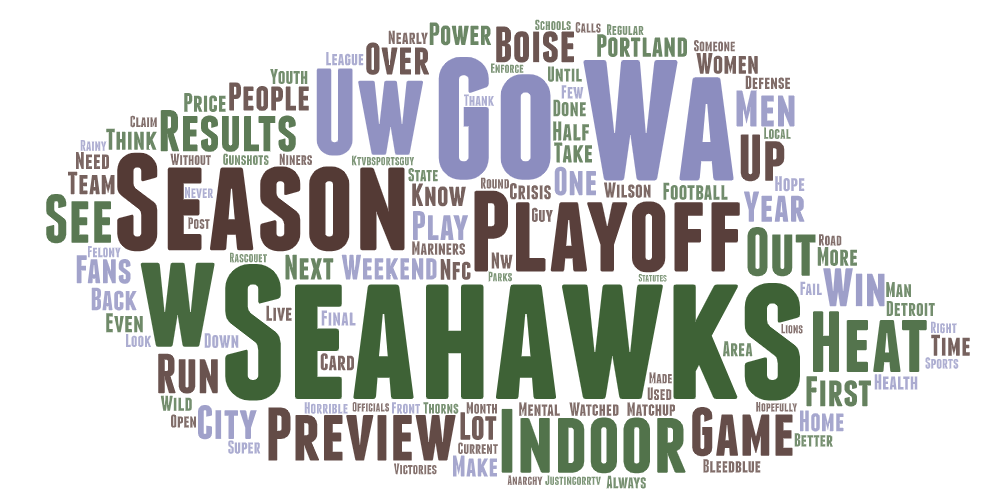
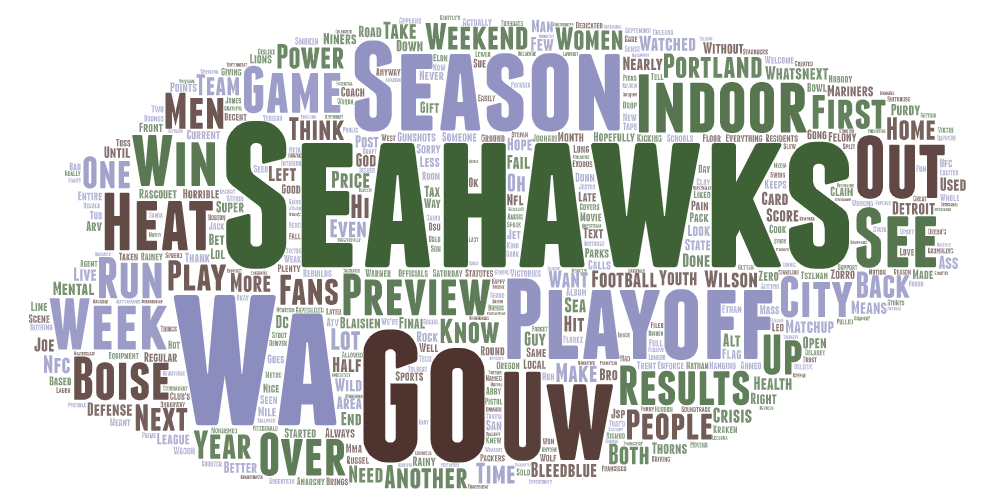
Work on markdown report

diff --git a/README.md b/README.md
@@ -1,29 +1,62 @@
 # GEOG 458 - Lab 2
 ### Calvin Standaert
 
-## Twitter Stream Discussion:
-
 ## Twitter Search Discussion:
 
-___Regarding your narratives about the exercise of the twsearch.ipynb, please introduce your research design. What topic you have chosen, how you pick the search terms as well as the search parameters.(POINT 9)___
+### Topic:
 
-The topic I chose to focus on was how the city of Seattle is talked about both in the city of Seattle, and other key cities in the Pacific Northwest. I thought that this would be interesting to look into, as the city of Seattle is often regarded in a political atmosphere, thus possibly being a polarizing figure in other places. Additionally, Seattle is the largest city in the Pacific Northwest, and thus likely impacts those people living in nearby cities.
+The topic I wanted to focus on in my comparison was “how do people talk about Seattle in the largest cities in the American Pacific Northwest”. To this end, the search terms I used were “Seattle” and “Emerald City” which together returned a sufficient amount of tweets in each of my chosen locations. The locations I chose to conduct my tweet searches in were Seattle; Washington, Portland; Oregon, Boise; Idaho, and Spokane; Washington. These cities were chosen because they have the largest populations among all the American cities in the Pacific Northwest Region. Overall, all searches were conducted on January 16th, 2023, and collected tweets from as far back as January 8th, 2023.
 
-**Search Terms:**
-For my search, I decided that it in order to find out how people talk about Seattle, it would be most important to directly use Seattle as the sole search term. I had considered including additional keywords that may identify Seattle, but I decided it would be unnecessary, as Seattle does not have any major nicknames.
+### Reason for Comparison:
+
+I wanted to conduct my comparative analysis on how the city of Seattle is spoken about for a couple of main reasons. The first reason is that in my experience, the city of Seattle can be a very divisive subject due to the political and social movements that happen in the city. Due to my suspicions that Seattle would be talked about in a political/social context, I wanted to see what different opinions are taken about Seattle’s associated politics and social movements in nearby cities. Besides politics and social movements, a second reason that made me interested in an analysis of how Seattle is talked about is that the city of Seattle is an important economic center, so I wanted to see if there were opinions of Seattle talked about in other cities due to Seattle’s economic presence. Finally, a last reason I wanted to analyze how Seattle is talked about is to see if there were any topics or words that were associated with Seattle that I wasn’t familiar with.
+
+### Comparison:
+
+Looking at the word clouds, I believe that we can see there is a high degree of similarity shared between each of the word clouds.
+
+One clear similarity shared between all of the word clouds is that each has a strong focus on sports, with very many words related to the Seahawks football team, and football in general appearing. More specifically, each word cloud contains numerous football team names, player and coach names, commentator names, and other terms related to football. Besides football, another similarity in all of the word clouds is that they each contain a moderate amount of words related to economics/economic transactions (tax, buy, price, sell), the legal system (police, sue, lawsuit, court), schools (UW, school, students) and time units (year, month, weekend). Though not readily apparent in the Portland word cloud, the word clouds of Seattle, Boise, and Spokane all also contain similar terms related to weather, such as weather, rain, and humidity.
+
+Due to the high degree of similarity between the word clouds, there are only a few differences that make each word cloud distinct. Probably the greatest difference between the word clouds is the number of words in each word cloud, with some word clouds having smaller pools of words, and others having larger pools of words. Ranking each word cloud by size, the Seattle word cloud has by far the most words, followed by Spokane, then Portland, and finally Boise. A second major difference between the word clouds is found in the terms left over after excluding all the major shared words/topics. After excluding the shared terms, the Seattle word cloud had words related to transportation and Martin Luther King Jr (transit, WADOT, MLK), the Boise word cloud had words related to crimes (murder, gunshot), the Spokane word cloud contained negatively-charged terms (shit, hate, and awful), and the Portland word cloud had words concerning popular media (TikTok, ChoeShow).
+
+### Reasoning for Patterns:
+
+I think that the patterns observed in the resulting data can be explained by some key reasons. 
+
+Concerning the pattern of sports-related talk, I think that the main reason so much of the data was dominated by sports talk is that football and other sports are very popular among those who use Twitter in each location. Additionally, I think the reason why the Seahawks and Seahawks player words were so common is that Seattle is the only city in the region with an NFL team, and thus it is likely that the Seahawks are also the main team for football fans in the other cities. Also worth noting in explaining the commonality of Seahawks/football talk is that the time I gathered my data was near the weekend when football is played and was also amidst the football playoffs/season, which is when football fans are more likely to be active. 
+
+With the terms surrounding weather found in the word clouds of Seattle, Spokane, and Boise (but not Portland), I think that the words related to weather may have occurred at high frequency because people were talking about the weather in Seattle or talking about weather systems affecting their city that also affected Seattle.
+
+Looking at the word related to economics, I believe that the reason why words like buy, tax, and sell occurred in each word cloud probably has something to do with people describing the economic situation in Seattle, talking about the recent rise in taxes proposed by certain liberal states/cities (such as Seattle), or more generally explaining their disdain with the way taxes are currently handled in Seattle. I think that this reason is essentially the same as why topics related to the legal system were popular, as people were talking about legal issues in Seattle, asserting an opinion related to Seattle legal proposals, or describing how they feel about certain Seattle legal cases.
+
+Considering the talk about schools, I think a possible explanation is that people were discussing Seattle schools like UW, or discussing topics related to the Seattle educational system. In a somewhat similar vein, I think that the talk of time units in Seattle-related tweets may have been due to people discussing events in Seattle, or possibly due to people talking about Seattle sports time frames including player contract timelines or time-dependent team decisions.
+
+Next, I think that a possible explanation for the difference in the number of words contained in each word cloud is due to a mix of differing city population sizes, and to a lesser degree, differences in how popular talking about Seattle is in each city. I think this would make sense because the city of Seattle has the largest population and the largest amount of words, while the city of Boise has the lowest amount of words and the lowest population. Under this explanation, we could also understand the difference between the number of Spokane and Portland words as being related to differing interests in talking about Seattle as opposed to being solely related to city population sizes.
+
+Finally, I think we can explain the differences in the popularity of smaller topics within each city as being a result of local interests associated with Seattle, or the topics that are locally associated with Seattle.
+
+### How Future Research Could Be Improved:
+
+If I were to conduct a similar analysis in the future, there would be a few things I think could be changed to improve the results. The first thing change I would make is to devise another system for reviewing the words that are more than simply searching through a list of the resulting words. I think that this could improve the research as the simple search I did for this analysis was time-consuming and likely missed many erroneous words due to the difficulty of manually searching. Instead of manually searching through the results, I think the research could be improved by first checking the resulting words against a dictionary of valid English words to weed out many of the erroneous entries. This change would expedite the analysis process and thus allow for greater data amounts to be processed.
+
+Another thing that could be improved in future research is how the results of tweets are gathered (specifically how each word in the text of a tweet is recorded). The main reason for this change is that many words from individual tweets were recorded with non-English characters, which made it necessary to discard a large amount of unparseable words. Discarding many words no doubt impacts the results and thus is a chief concern for word frequency analysis. To fix this issue, something would need to be done to extract the tweets without changing the characters in the tweets, thus preserving more of the words.
+
+A third thing I would likely change to improve my future research is to focus the search criteria a bit more to gather data specifically related to a key topic. For example, if I were doing this same search again, I would try and add keywords in my search criteria that would help filter out tweets related to football or sports, which would help gather tweets that discuss the city of Seattle more specifically. This change in concert with a focused topic would likely result in much more meaningful results and overall improve my research quality.
+
+Finally, my research in the future could be improved by gathering data from each location many times over longer periods or by gathering historical tweets from greater periods. This change is important because, in the research done for this assignment, I was only able to gather a limited amount of tweets from a narrow period. These constraints on data collection are likely to vastly reduce the analysis quality as the tweets gathered are much more likely to be impacted by short-term trends in tweeting, such as by football games or key political movements. Expanding the number of tweets gathered would mean that my analysis would be much more robust and more likely to accurately depict how Seattle is tweeted about in main Pacific Northwest cities.
+
+### Difference from Expectations:
+
+Overall, the results I obtained from my research differed from my expectations in some major ways. I think the clearest difference from my expectations that the results yielded was how much sports that would be talked about in conversations about Seattle. I had expected that the talk about Seattle would be more focused on Seattle’s reputation or political impact, and so I was surprised to find that the tweets related to Seattle were dominated by Seattle’s football team and football players.
+
+Another big difference from my expectations is that the discussion about Seattle was very unfocused, and the resulting word clouds did not seem to contain any key insights about how people in other large Pacific Northwest cities talk about Seattle. This difference was especially important given how some important terms were talked about, but they were small and the word cloud format meant that they could not easily be attached to opinions.
+
+A last difference from expectations is that the word clouds produced from the tweets were fairly homogenous and differed in seemingly minor ways. This difference was somewhat surprising, as I had thought that the people in each city would talk about Seattle in starkly different contexts.
+
+Besides differences in expectations, I think that the clearest thing that stands out to me from my analysis is that good word cloud analysis is difficult and the words returned by a tweet search may not necessarily align with expectations. Where I had assumed that my tweet search would enable a clear analysis of opinions of Seattle, I instead found that word clouds can be jumbled messes and the tweets that I gathered talked about my topic of interest much less than those topics I hadn’t anticipated.
 
 
-**Search Parameters:**
 
-My searches were all done on Monday, January 16th at approximately 8 AM. These searches pulled tweets from up to seven days prior, thus forming a time interval of tweets from January 11th to January 16th. Since I wanted to see how major cities in the Pacific northwest talk about Seattle, I conducted my searches in four different geographical areas. The first area was the city Seattle, the second was the city of Spokane, the third was the city of Boise, and the last was the city of Portland.
-
-**Comparison:**
-
-Looking at each of the word clouds, one major similarity I think we see between all the different locations is the high frequency of words associated with Seattle sports teams, the sports teams of other cities, and sports in general. Another similarity between the word clouds is that each word cloud contains terms related to weather, most frequently rain, winds, clouds, and weather.
-
-Despite the similar topics, the actual words in each word cloud are different which suggests the different context from which each set of words was taken. Amongst even the similar words or topics, even shared words are ranked differently, which is best shown by the words Seahawks, which appears in each word cloud, but is different sizes in each. Additionally, there are a number of words that are unique to each context.
-
-**Difference from my expectations**
 
 go to file > raw > copy address
 ALternative:
@@ -31,7 +64,19 @@ Use relative path to the file
 
 The results from the search were significantly different from what I thought I would get. While creating my search term, I thought that I would likely see many other negative words in the searches found in other cities. I additionally hadn't thought of how prevalent the sports talk would be. Given these ideas I was surprised to find out that a good amount of the results were focused on sports.
 
-![](/img/Boise_word_art.png)
-![](/img/Seattle_Word_Art.png)
-![](/img/Spokane_Word_Art.png)
-![](/img/Portland_Word_art.png)
+### Word Clouds:
+#### Boise:
+![](./img/Boise_word_art.png)
+[Boise Tweet Search Data](./assets/twsearch-result-Boise.csv)
+<br>
+#### Seattle:
+![](./img/Seattle_Word_Art.png)
+[Seattle Tweet Search Data](./assets/twsearch-result-Seattle.csv)
+<br>
+#### Spokane:
+![](./img/Spokane_Word_Art.png)
+[Spokane Tweet Search Data](./assets/twsearch-result-Spokane.csv)
+<br>
+#### Portland:
+![](./img/Portland_Word_art.png)
+[Portland Tweet Search Data](./assets/twsearch-result-Portland.csv)
